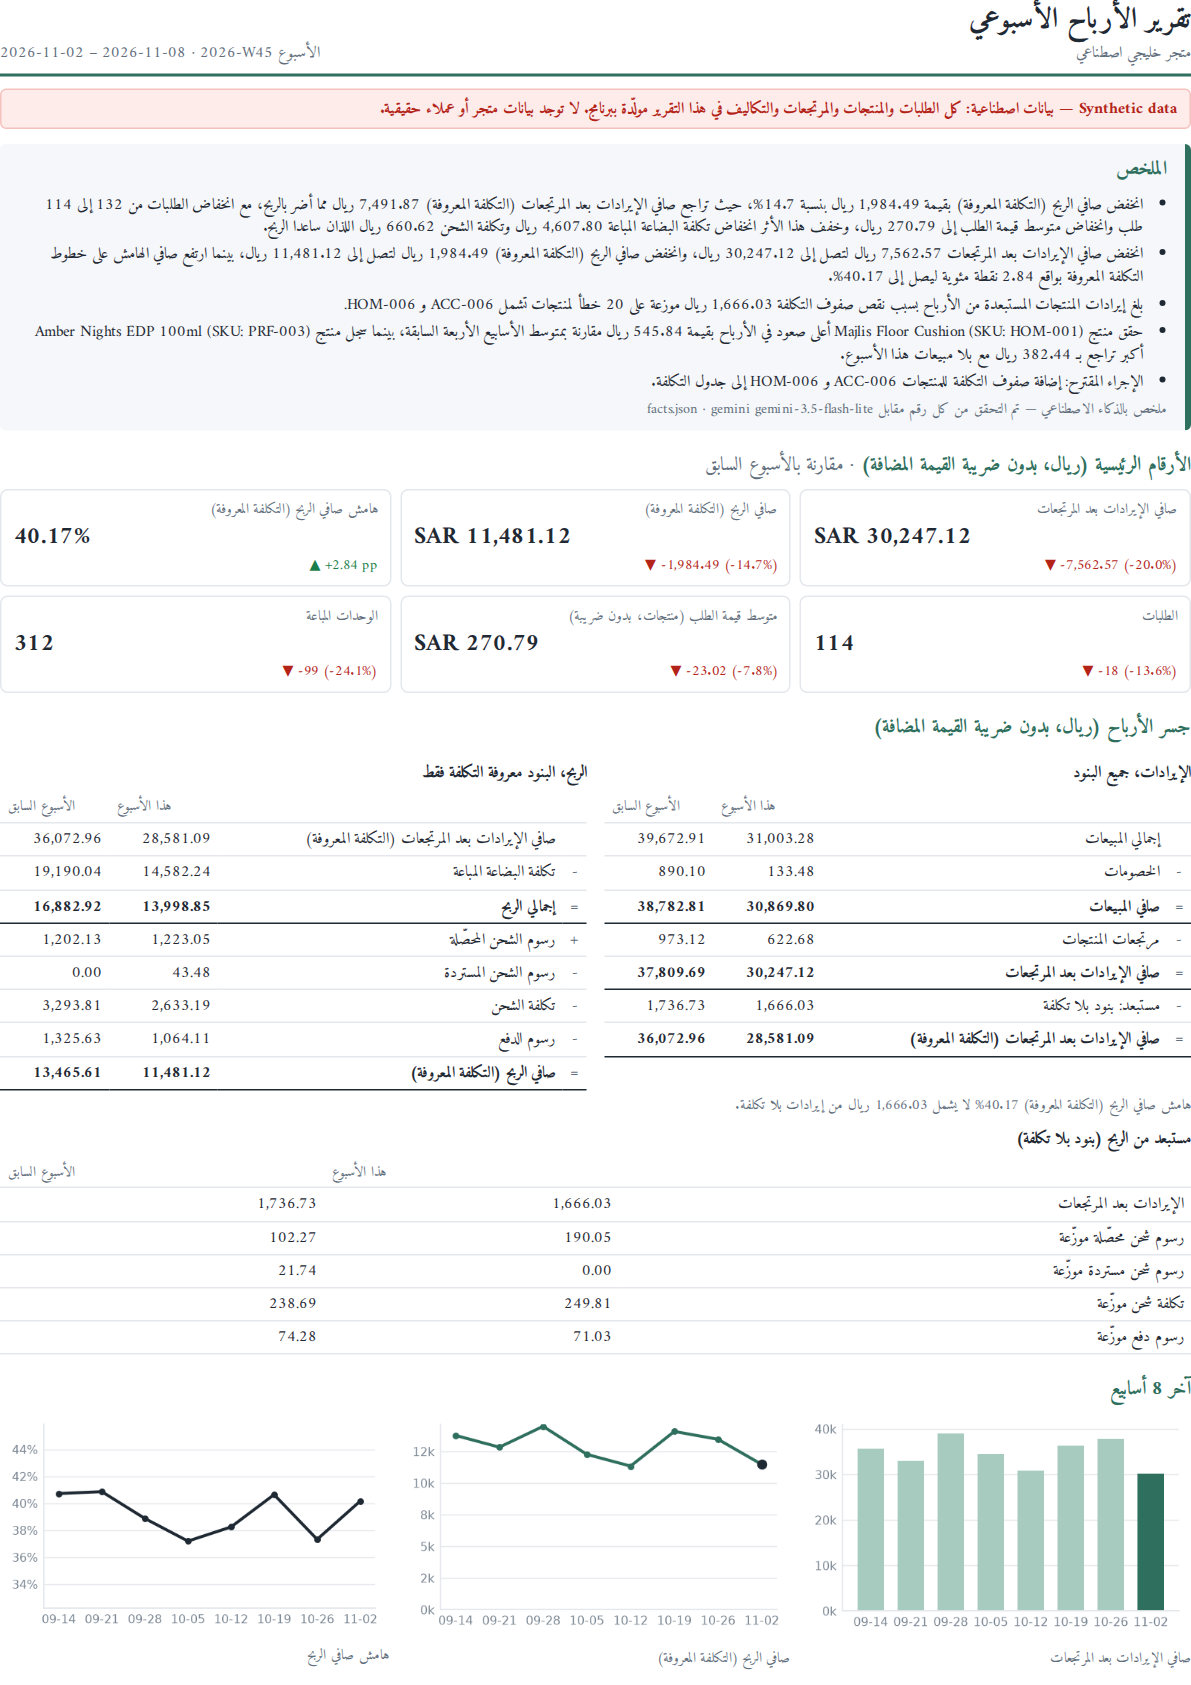
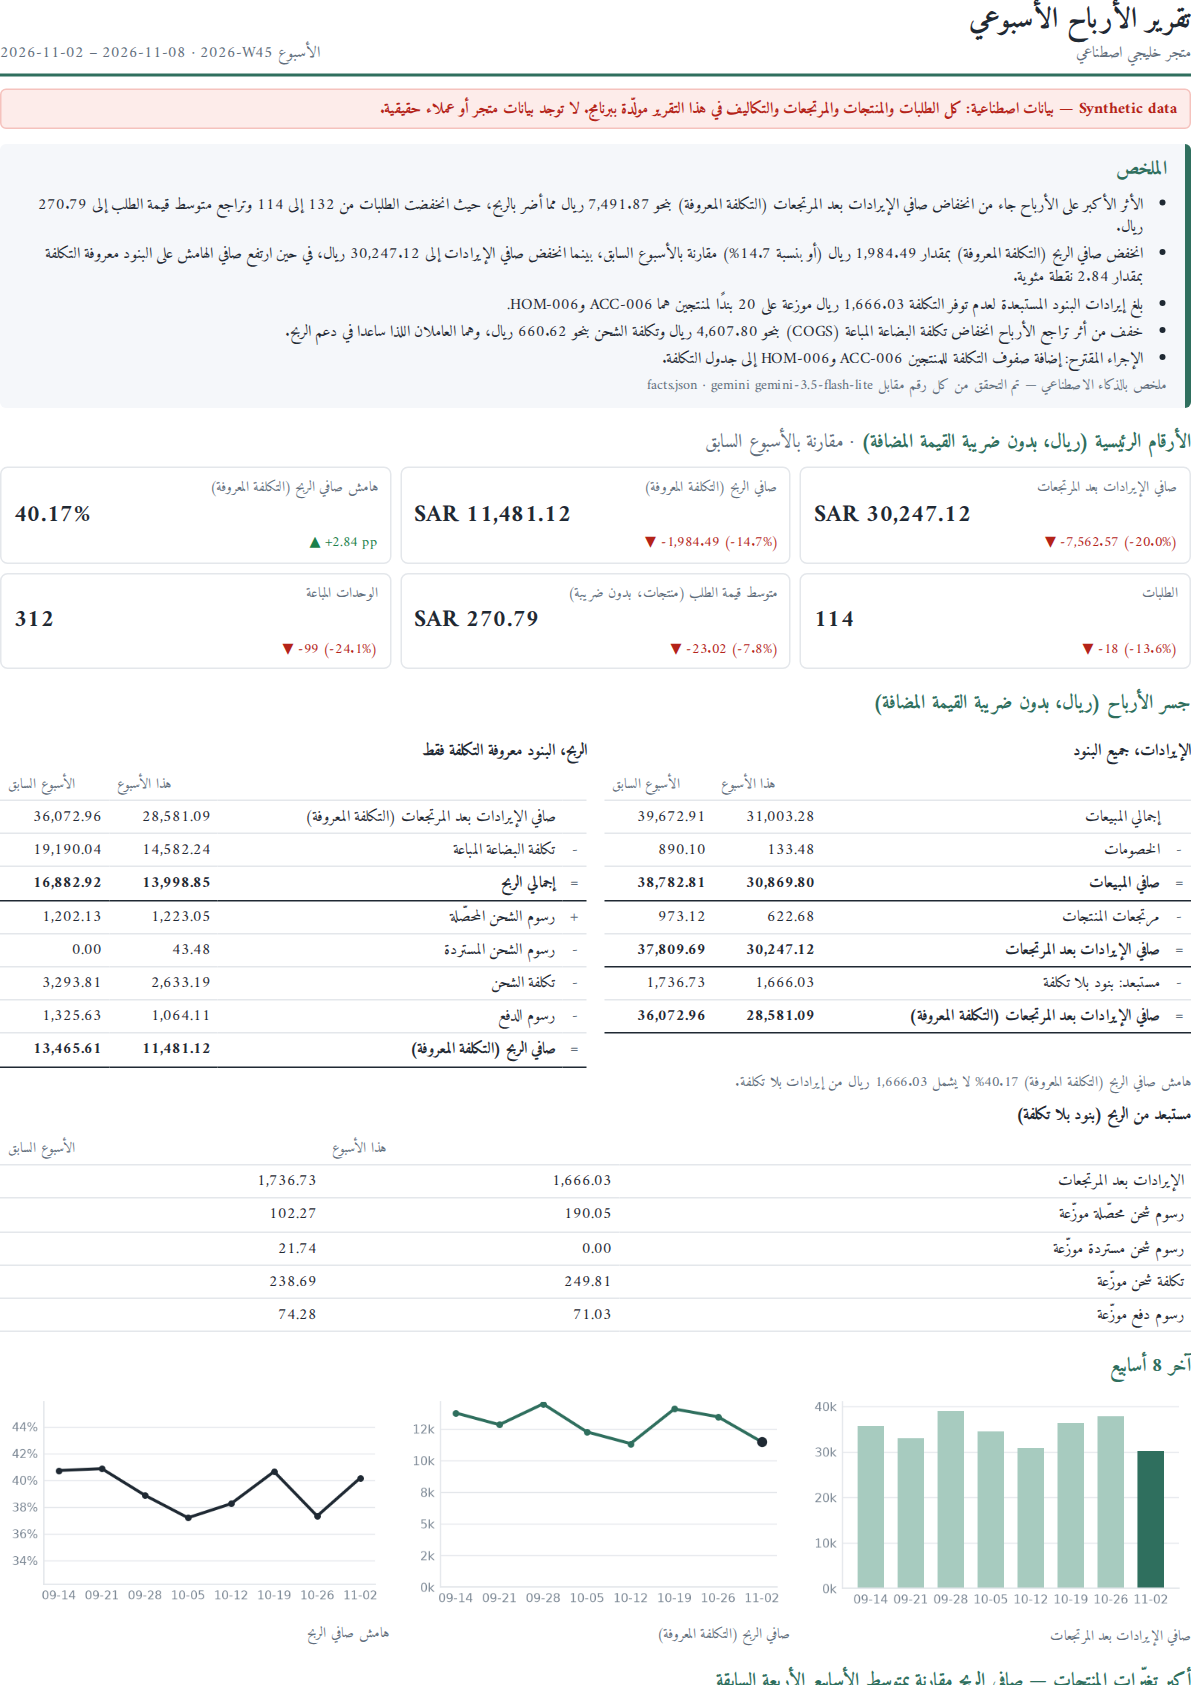
Regenerate AR sample with Gemini (prompt v8, verified on attempt 1) and its page-1 preview

diff --git a/docs/sample-report/2026-W45/report.ar.html b/docs/sample-report/2026-W45/report.ar.html
@@ -54,7 +54,7 @@ footer { margin-top:14px; color:var(--muted); font-size:9px; border-top:1px soli
 <section class="summary avoid-break">
   <h2 style="margin-top:0">الملخص</h2>
   
-  <ul dir="rtl"><li>انخفض صافي الربح (التكلفة المعروفة) بقيمة 1,984.49 ريال بنسبة 14.7%، حيث تراجع صافي الإيرادات بعد المرتجعات (التكلفة المعروفة) 7,491.87 ريال مما أضر بالربح، مع انخفاض الطلبات من 132 إلى 114 طلب وانخفاض متوسط قيمة الطلب إلى 270.79 ريال، وخفف هذا الأثر انخفاض تكلفة البضاعة المباعة 4,607.80 ريال وتكلفة الشحن 660.62 ريال اللذان ساعدا الربح.</li><li>انخفض صافي الإيرادات بعد المرتجعات 7,562.57 ريال لتصل إلى 30,247.12 ريال، وانخفض صافي الربح (التكلفة المعروفة) 1,984.49 ريال لتصل إلى 11,481.12 ريال، بينما ارتفع صافي الهامش على خطوط التكلفة المعروفة بواقع 2.84 نقطة مئوية ليصل إلى 40.17%.</li><li>بلغ إيرادات المنتجات المستبعدة من الأرباح بسبب نقص صفوف التكلفة 1,666.03 ريال موزعة على 20 خطأ لمنتجات تشمل ACC-006 و HOM-006.</li><li>حقق منتج Majlis Floor Cushion (SKU: HOM-001) أعلى صعود في الأرباح بقيمة 545.84 ريال مقارنة بمتوسط الأسابيع الأربعة السابقة، بينما سجل منتج Amber Nights EDP 100ml (SKU: PRF-003) أكبر تراجع بـ 382.44 ريال مع بلا مبيعات هذا الأسبوع.</li><li>الإجراء المقترح: إضافة صفوف التكلفة للمنتجات ACC-006 و HOM-006 إلى جدول التكلفة.</li></ul>
+  <ul dir="rtl"><li>الأثر الأكبر على الأرباح جاء من انخفاض صافي الإيرادات بعد المرتجعات (التكلفة المعروفة) بنحو 7,491.87 ريال مما أضر بالربح، حيث انخفضت الطلبات من 132 إلى 114 وتراجع متوسط قيمة الطلب إلى 270.79 ريال.</li><li>انخفض صافي الربح (التكلفة المعروفة) بمقدار 1,984.49 ريال (أو بنسبة 14.7%) مقارنة بالأسبوع السابق، بينما انخفض صافي الإيرادات إلى 30,247.12 ريال، في حين ارتفع صافي الهامش على البنود معروفة التكلفة بمقدار 2.84 نقطة مئوية.</li><li>بلغ إيرادات البنود المستبعدة لعدم توفر التكلفة 1,666.03 ريال موزعة على 20 بندًا لمنتجين هما ACC-006 وHOM-006.</li><li>خفف من أثر تراجع الأرباح انخفاض تكلفة البضاعة المباعة (COGS) بنحو 4,607.80 ريال وتكلفة الشحن بنحو 660.62 ريال، وهما العاملان اللذا ساعدا في دعم الربح.</li><li>الإجراء المقترح: إضافة صفوف التكلفة للمنتجين ACC-006 وHOM-006 إلى جدول التكلفة.</li></ul>
   <div class="src">ملخص بالذكاء الاصطناعي — تم التحقق من كل رقم مقابل facts.json · gemini gemini-3.5-flash-lite</div>
 </section>
 

diff --git a/README.md b/README.md
@@ -331,7 +331,7 @@ statuses, plus a `unique_combination` test.
 - **Known limitation:** a wrong number can still pass if it happens to equal an unrelated fact. The direction and unit checks and the small fact set reduce this risk. The cause check is
   keyword-based, so a cause stated without one of the listed words is not caught.
 
-**Sample:** [`docs/sample-report/2026-W45/`](docs/sample-report/2026-W45/) holds the EN and AR reports (HTML and PDF) for the last full week. Both samples use a **real Gemini AI summary** (`gemini-3.5-flash-lite`, prompt v7) that passed every check (numbers, direction, units, causes citing profit drivers, top insight, specific action) on the first attempt: `ai_summary.source = "llm"` and `status = "verified"` in `facts.json` / `facts.ar.json`, with tokens and the cost estimate (null: pricing not configured) logged. Regenerate them with `p3 report --out docs/sample-report --preview` and `--lang ar`.
+**Sample:** [`docs/sample-report/2026-W45/`](docs/sample-report/2026-W45/) holds the EN and AR reports (HTML and PDF) for the last full week. Both samples use a **real Gemini AI summary** (`gemini-3.5-flash-lite`; English prompt v7, Arabic prompt v8) that passed every check (numbers, direction, units, causes citing profit drivers, top insight, specific action) on the first attempt: `ai_summary.source = "llm"` and `status = "verified"` in `facts.json` / `facts.ar.json`, with tokens and the cost estimate (null: pricing not configured) logged. Regenerate them with `p3 report --out docs/sample-report --preview` and `--lang ar`.
 
 | English | Arabic |
 |---|---|
